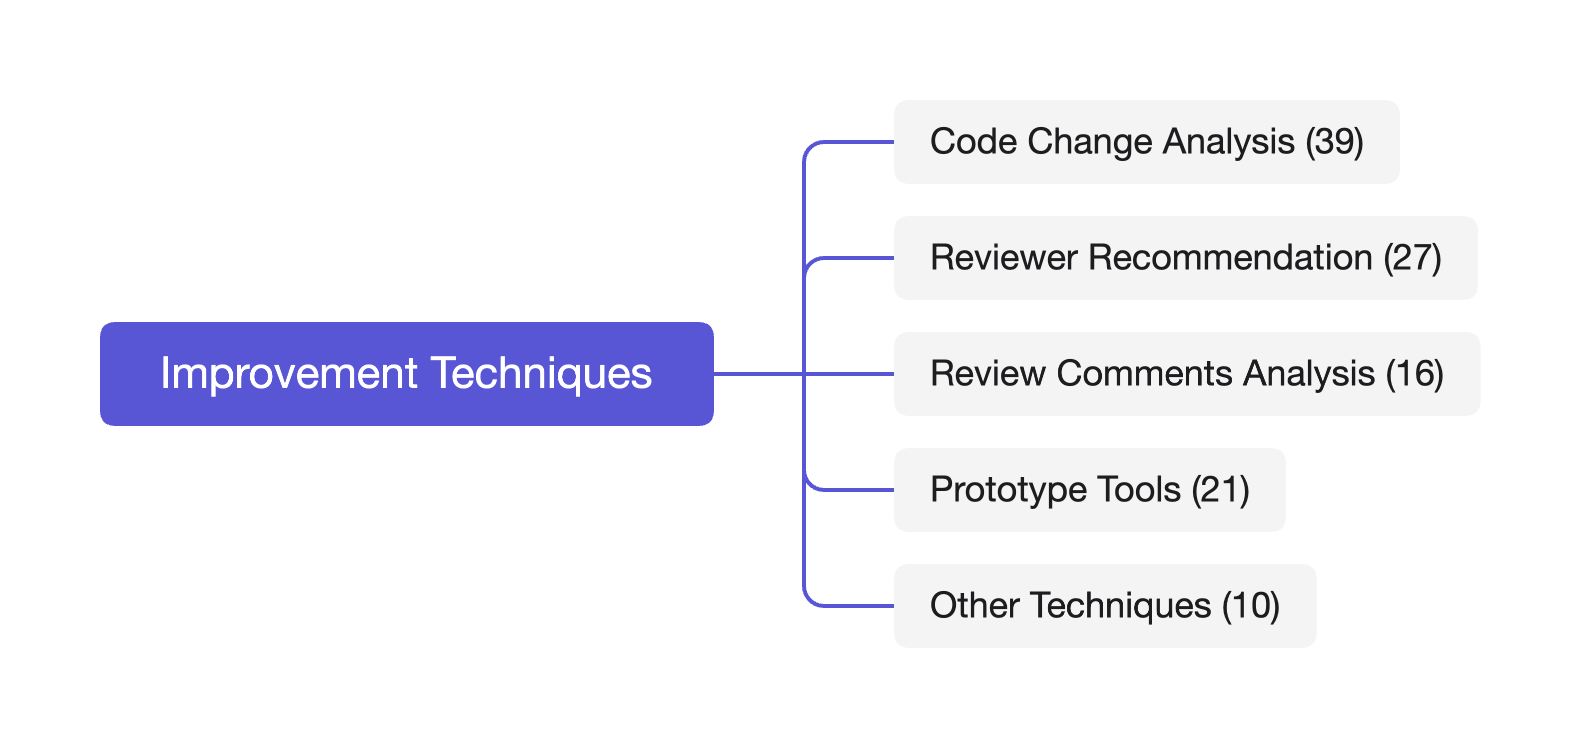
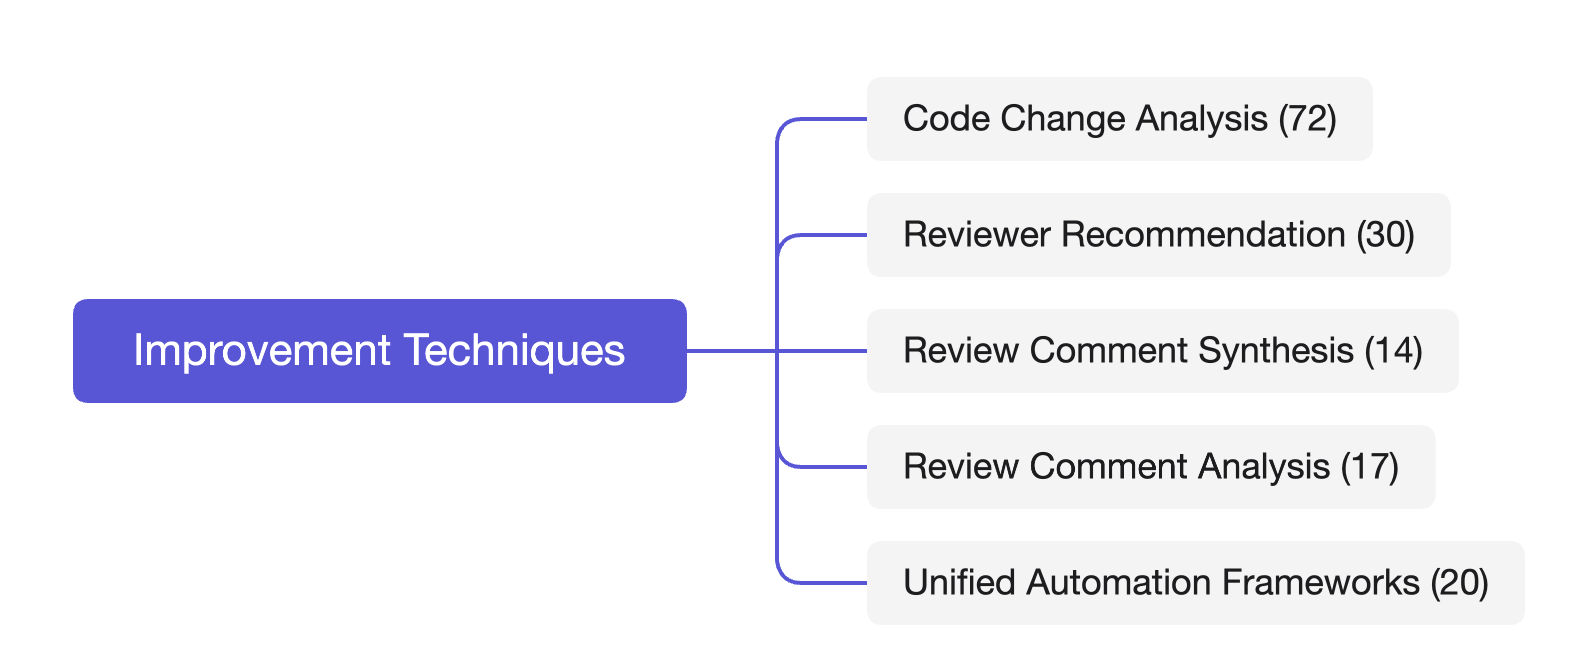
UPDATE pic

Changed region(s): [[0.031, 0.1524, 0.9304, 0.8841], [0.4962, 0.8537, 0.9614, 0.9146], [0.5892, 0.7927, 0.8063, 0.8232]]

diff --git a/README.md b/README.md
@@ -15,11 +15,12 @@ In this repository, we collected papers related to modern code review (MCR) from
 
 ### Improvement Techniques
 
-<!-- ![Improvement-Techniques-1](./pic/Improvement-Techniques-1.png) -->
+![Improvement Techniques](./pic/Improvement-Techniques-1.png)
+
 
 #### Code Change Analysis
 
-<!-- ![Code Change Analysis](./pic/Improvement/Improvement-Code-Change-Analysis.png) -->
+![Code Change Analysis](./pic/Improvement/Code-Change-Analysis.png)
 
 ##### Change Decomposition
 
@@ -274,7 +275,7 @@ In this repository, we collected papers related to modern code review (MCR) from
 
 #### Reviewer Recommendation
 
-<!-- ![Reviewer Recommendation](./pic/Improvement/Improvement-Reviewer-Recommendation.png) -->
+![Reviewer Recommendation](./pic/Improvement/Reviewer-Recommendation.png)
 
 ##### Technical Factors
 
@@ -400,6 +401,8 @@ In this repository, we collected papers related to modern code review (MCR) from
 
 #### Review Comment Synthesis
 
+![Reviewer Comment Synthesis](./pic/Improvement/Review-Comment-Synthesis.png)
+
 * Retrieval-based methods
 
   2018
@@ -457,7 +460,7 @@ In this repository, we collected papers related to modern code review (MCR) from
 
 #### Review Comment Analysis
 
-<!-- ![Review-Comments-Analysis](./pic/Improvement/Improvement-Review-Comments-Analysis.png) -->
+![Review-Comment-Analysis](./pic/Improvement/Review-Comment-Analysis.png)
 
 ##### Content and Intent Analysis
 
@@ -524,6 +527,8 @@ In this repository, we collected papers related to modern code review (MCR) from
 
 #### Unified Automation Frameworks
 
+![Unified Automation Frameworks](./pic/Improvement/Unified-Automation-Frameworks.png)
+
 ##### Deep learning-based methods
 
 2022
@@ -583,16 +588,15 @@ In this repository, we collected papers related to modern code review (MCR) from
 [Multi-Agent LLM Collaboration for Adaptive Code Review, Debugging, and Security Analysis](https://ieeexplore.ieee.org/document/11135756)
 
 
-#### Summary
-
-<!-- ![The taxonomy of Improvement Techniques](./Improvement-Techniques.png) -->
-
 ### Understanding Study
 
-<!-- ![Understanding-Studies-1](./pic/Understanding-Studies-1.png) -->
+![Understanding-Studies-1](./pic/Understanding-Studies-1.png)
 
 
 #### Quality Assurance and Reliability 
+
+![Quality Assurance and Reliability](./pic/Understanding/Quality-Assurance-and-Reliability.png)
+
 
 ##### Defect and Risk Detection
 
@@ -751,6 +755,9 @@ In this repository, we collected papers related to modern code review (MCR) from
   [Enhancing Aerospace Software Quality with Automated Code Review](https://ieeexplore.ieee.org/document/11068615)
 
 #### Process Efficiency and Workflow Patterns
+
+![Process Efficiency and Workflow Patterns](./pic/Understanding/Process-Efficiency-and-Workflow-Patterns.png)
+
 
 [Modern Code Reviews—Survey of Literature and Practice](https://dl.acm.org/doi/10.1145/3585004)
 
@@ -944,6 +951,8 @@ In this repository, we collected papers related to modern code review (MCR) from
 
 #### Human Factors and Social Interaction
 
+![Human Factors and Social Interaction](./pic/Understanding/Human-Factors-and-Social-Interaction.png)
+
 ##### Demographic and Social Influence
 
 2013
@@ -1134,6 +1143,8 @@ In this repository, we collected papers related to modern code review (MCR) from
 
 #### Evolution toward Human-AI Collaboration
 
+![Evolution toward Human-AI Collaboration](./pic/Understanding/Evolution-toward-Human-AI Collaboration.png)
+
 ##### AI Capabilities and Model Performance
 
 2023
@@ -1201,9 +1212,6 @@ In this repository, we collected papers related to modern code review (MCR) from
 [AI-Driven Continuous Integration: Automating Code Review and Deployment with LLMs](https://ieeexplore.ieee.org/document/11119365)
 
 
-#### Summary
-
-<!-- ![Understanding Studies](./Understanding-Studies.png) -->
 
 ## Cite
 
